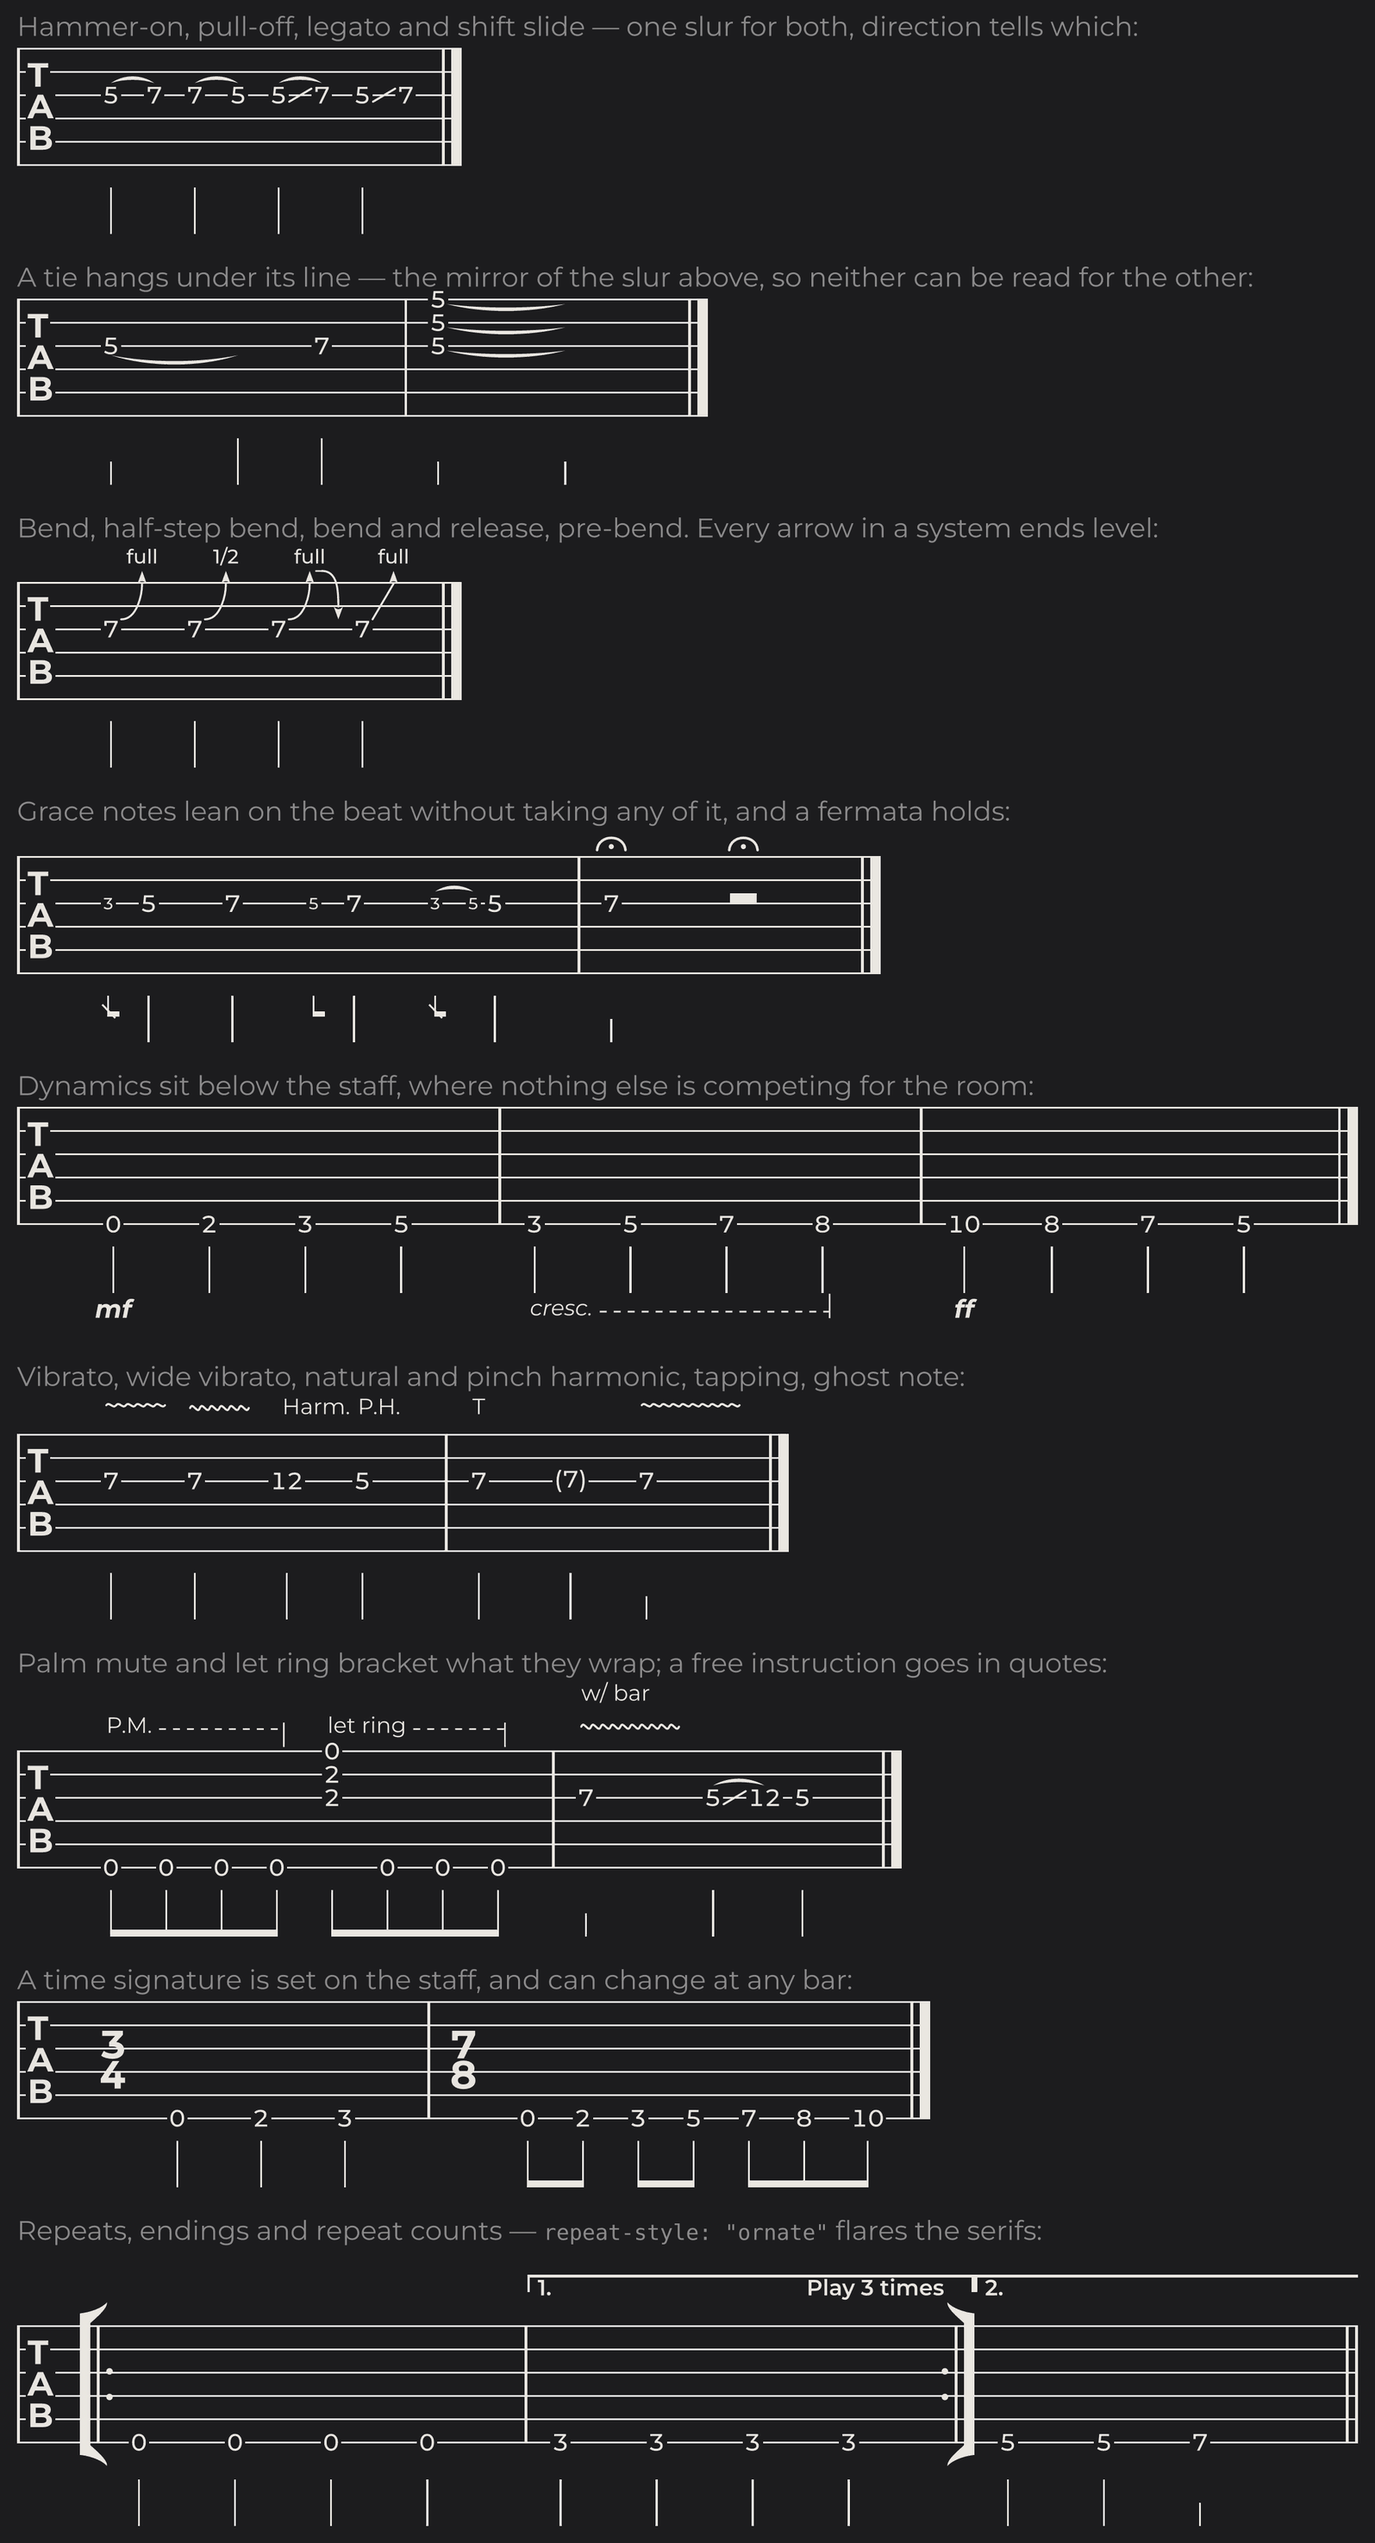
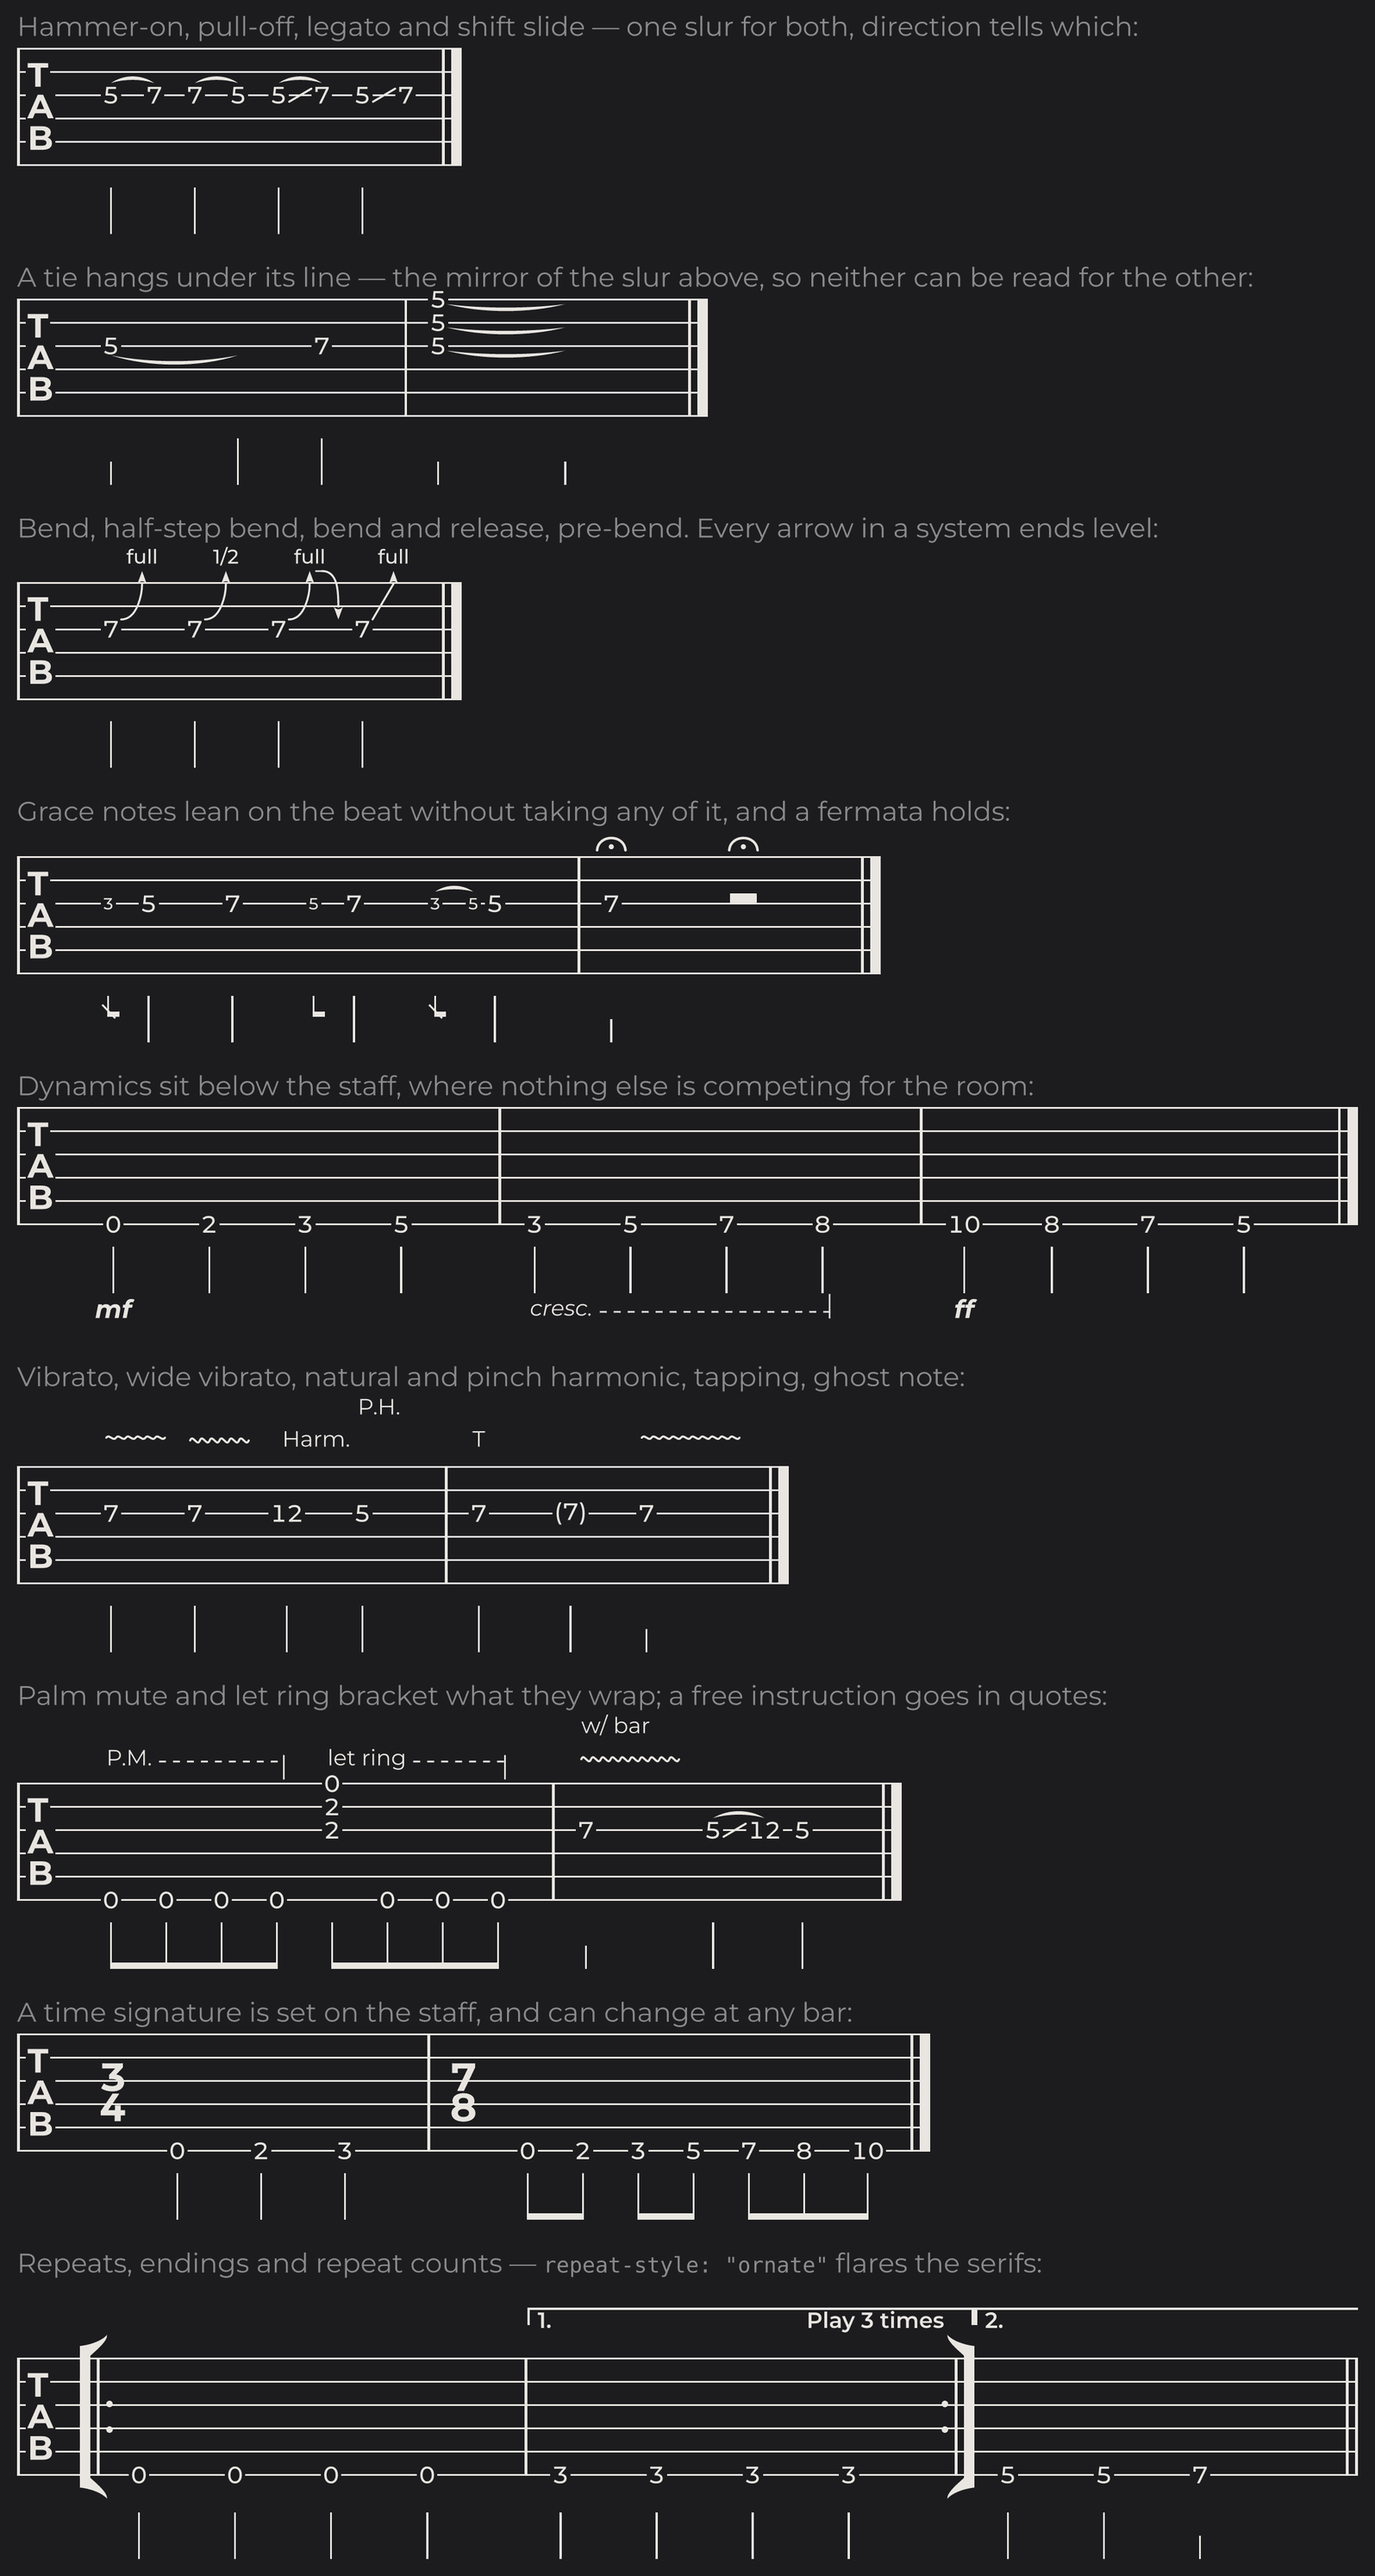
Stack a kind of mark where it is in its own way
A group of marks — every palm mute in a system, every bracketed span —
moves as a unit so that a kind keeps one height down the page, and `pack`
only ever measured a group against the levels *other* groups had taken.
Two members of one group in each other's way were never noticed, and they
printed on top of each other: a `let ring` label is three staff spaces
wide, so two spans a sixteenth apart came out as `let ringlet ring`.

A group is now first split into the fewest runs whose members clear each
other — by start, each mark taking the first run it fits in — and each run
placed as a unit. So a kind still occupies one level wherever it can and
gains a second only across the stretch where it must. Nothing that fitted
before moves: no reference render changed until the fixture for this was
added.

Claude-Session: https://claude.ai/code/session_01KRcQiMeKK2DoNPAnXS97kq

diff --git a/SPEC.md b/SPEC.md
@@ -556,6 +556,15 @@ Looking good is a stated goal, so it is specified as testable requirements.
    marks are in different bars. Marks of one kind move together, so every palm
    mute in a system stays at one height; when two kinds do collide, the one that
    belongs closer to the staff wins the lower level.
+
+   **Except where a kind is in its own way.** A `let ring` label is three staff
+   spaces wide, so two spans a sixteenth apart have labels wider than the room
+   between them and no single height holds both. The kind is then split into the
+   fewest runs whose members clear each other — by start, each mark taking the
+   first run it fits in — and each run placed as a unit. So a kind still occupies
+   one level wherever it can and gains a second only across the stretch where it
+   must. Measured only against *other* kinds, as it was, two such labels simply
+   printed on top of each other.
 6. **`TAB` is stacked vertically** at the start of every system.
 7. **Barlines are heavier than string lines**; closing and repeat forms use the
    conventional thin-then-thick pair. `theme(repeat-style: "ornate")` gives the

diff --git a/CHANGELOG.md b/CHANGELOG.md
@@ -69,6 +69,15 @@
 
 ### Fixed
 
+- **Two marks of one kind no longer print on top of each other.** A group of
+  marks — every palm mute in a system, every bracketed span — moves as a unit so
+  that a kind keeps one height down the page, and it was only ever measured
+  against *other* groups; two of its own members in each other's way were never
+  noticed. A `let ring` label is three staff spaces wide, so two spans a
+  sixteenth apart came out as `let ringlet ring`. The kind is now split into the
+  fewest runs whose members clear each other, and each run placed as a unit, so
+  it still occupies one level wherever it can and gains a second only across the
+  stretch where it must.
 - **A word the system break cuts in two keeps its hyphen**, set at the end of the
   line. Only the second half showed the break before, and the first half read as
   a word that ended there.
